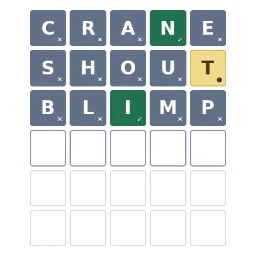
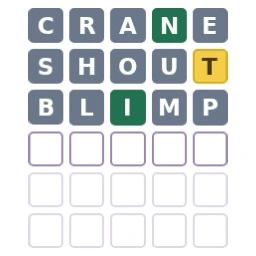
Refine Fivefold feedback layout and colors

Changed region(s): [[0.0938, 0.0312, 0.9062, 0.9688]]

diff --git a/src/lib/games/fivefold/Fivefold.svelte b/src/lib/games/fivefold/Fivefold.svelte
@@ -17,7 +17,6 @@
 
   const keyboardRows = ['QWERTYUIOP'.split(''), 'ASDFGHJKL'.split(''), ['Enter', ...'ZXCVBNM', 'Backspace']];
   const ranks: Record<LetterState, number> = { absent: 0, present: 1, correct: 2 };
-  const marks: Record<LetterState, string> = { absent: '×', present: '●', correct: '✓' };
   const descriptions: Record<LetterState, string> = {
     absent: 'no matching copy',
     present: 'in the word, different position',
@@ -48,7 +47,7 @@
         ? `Solved in ${guesses.length} ${guesses.length === 1 ? 'guess' : 'guesses'}.`
         : finished
           ? `All six guesses used. The word was ${answer}.`
-          : message || 'Type a five-letter word, then press Enter.'
+          : message || 'Enter a five-letter word.'
   );
   const keyboardStates = $derived.by(() => {
     const states: Record<string, LetterState> = {};
@@ -88,18 +87,18 @@
     if (!ready || finished) return;
     if (key === 'Enter') {
       if (draft.length !== WORD_LENGTH) {
-        message = `Add ${WORD_LENGTH - draft.length} more ${WORD_LENGTH - draft.length === 1 ? 'letter' : 'letters'} before submitting.`;
+        message = `Add ${WORD_LENGTH - draft.length} more ${WORD_LENGTH - draft.length === 1 ? 'letter' : 'letters'}.`;
         inputError = true;
         return;
       }
       if (!isAllowedGuess(draft)) {
-        message = `${draft} isn’t in our word list. Try another five-letter word.`;
+        message = 'Not in our word list.';
         inputError = true;
         return;
       }
       guesses = [...guesses, draft];
       draft = '';
-      message = 'Guess recorded. Use the clues to find your next word.';
+      message = 'Guess recorded. Try another word.';
       inputError = false;
       persist();
       return;
@@ -193,7 +192,6 @@
             aria-hidden="true"
           >
             <span class="tile-letter">{row.word[column] ?? ''}</span>
-            {#if state}<span class="tile-mark">{marks[state]}</span>{/if}
           </div>
         {/each}
       </div>
@@ -201,9 +199,9 @@
   </div>
 
   <div class="color-key" aria-label="Letter feedback key">
-    <span><span class="legend-symbol correct-symbol" aria-hidden="true">✓</span> Right spot</span>
-    <span><span class="legend-symbol present-symbol" aria-hidden="true">●</span> Wrong spot</span>
-    <span><span class="legend-symbol absent-symbol" aria-hidden="true">×</span> No match</span>
+    <span><span class="legend-swatch correct-color" aria-hidden="true"></span> Right spot</span>
+    <span><span class="legend-swatch present-color" aria-hidden="true"></span> Wrong spot</span>
+    <span><span class="legend-swatch absent-color" aria-hidden="true"></span> No match</span>
   </div>
 
   <p id="fivefold-status" class="game-status" class:error={inputError && !finished} role="status" aria-live="polite" aria-atomic="true">{status}</p>
@@ -250,7 +248,6 @@
             {:else}
               <span>{key}</span>
             {/if}
-            {#if state}<span class="key-mark" aria-hidden="true">{marks[state]}</span>{/if}
           </button>
         {/each}
       </div>
@@ -262,11 +259,11 @@
     <div class="instructions">
       <p>Find the hidden five-letter word in six guesses. Enter a word using your keyboard or the keys above, then press <strong>Enter</strong>. Each guess must be in our word list.</p>
       <ul>
-        <li><strong>✓ Right spot:</strong> that letter is exactly where it belongs.</li>
-        <li><strong>● Wrong spot:</strong> the word contains that letter, but elsewhere.</li>
-        <li><strong>× No match:</strong> there is no remaining copy of that letter to match.</li>
+        <li><strong>Green — right spot:</strong> that letter is exactly where it belongs.</li>
+        <li><strong>Yellow — wrong spot:</strong> the word contains that letter, but elsewhere.</li>
+        <li><strong>Gray — no match:</strong> there is no remaining copy of that letter to match.</li>
       </ul>
-      <p>Repeated letters count individually. If you guess two Es and the answer has only one, just one E gets a ✓ or ●. Correct positions are matched first, then remaining copies from left to right.</p>
+      <p>Repeated letters count individually. If you guess two Es and the answer has only one, just one E turns green or yellow. Correct positions are matched first, then remaining copies from left to right.</p>
       <p>The keyboard keeps each letter’s best clue. Your progress is saved in this browser when storage is available. Sharing reveals the pattern of your guesses, never the word.</p>
     </div>
   </details>
@@ -298,7 +295,6 @@
   .board-row { display: grid; grid-template-columns: repeat(5, minmax(0, 1fr)); gap: 6px; }
 
   .tile {
-    position: relative;
     display: grid;
     place-items: center;
     aspect-ratio: 1;
@@ -313,10 +309,9 @@
   .tile-letter { font-size: clamp(1.45rem, 7vw, 1.95rem); font-weight: 800; }
   .current .tile { border-color: var(--accent-line); }
   .current .tile.filled { border-color: var(--accent); background: var(--page); }
-  .tile-mark { position: absolute; right: 4px; bottom: 3px; font-size: 0.68rem; font-weight: 800; }
   .tile.correct, .key.correct { background: #22724f; border-color: #22724f; color: #fff; }
-  .tile.present, .key.present { background: #f1d98a; border-color: #d8bb60; color: #49380e; }
-  .tile.absent, .key.absent { background: #627087; border-color: #627087; color: #fff; }
+  .tile.present, .key.present { background: #f5cd47; border-color: #d6ad26; color: #49380e; }
+  .tile.absent, .key.absent { background: #6b778a; border-color: #6b778a; color: #fff; }
 
   .color-key {
     display: flex;
@@ -329,10 +324,10 @@
   }
 
   .color-key > span { display: inline-flex; align-items: center; gap: 0.3rem; }
-  .legend-symbol { display: inline-grid; place-items: center; width: 17px; height: 17px; border-radius: 3px; font-size: 0.7rem; font-weight: 800; }
-  .correct-symbol { background: #22724f; color: #fff; }
-  .present-symbol { background: #f1d98a; color: #49380e; }
-  .absent-symbol { background: #627087; color: #fff; }
+  .legend-swatch { width: 17px; height: 17px; border-radius: 3px; }
+  .correct-color { background: #22724f; }
+  .present-color { background: #f5cd47; }
+  .absent-color { background: #6b778a; }
 
   .game-status {
     display: flex;
@@ -353,7 +348,6 @@
   .middle-row { padding-inline: 5%; }
 
   .key {
-    position: relative;
     display: flex;
     align-items: center;
     justify-content: center;
@@ -375,7 +369,6 @@
   }
 
   .key.action-key { flex-grow: 1.55; font-size: 0.68rem; }
-  .key-mark { position: absolute; right: 3px; bottom: 2px; font-size: 0.58rem; line-height: 1; }
   .key:disabled { cursor: default; }
   .keyboard[aria-describedby] .key:disabled:not(.correct):not(.present):not(.absent) { color: #666; background: #f3f3f3; }
   .key:active:not(:disabled) { transform: translateY(1px); border-bottom-width: 1px; }

diff --git a/README.md b/README.md
@@ -58,6 +58,7 @@ Those infrastructure changes are separate from this repository. No VITE_SITE_URL
 - Today's puzzle uses the browser clock and the America/Chicago calendar date, including daylight saving time.
 - Daily puzzles generate only when opened; no generated daily records or archive pages are stored on a server.
 - /games/fivefold/ opens today's word puzzle; /games/kings/ opens today's crown-placement puzzle.
+- Fivefold tiles and letter keys show clues by color only: green for the right spot, golden yellow for the wrong spot, and slate gray for no match. Screen readers retain per-letter clue descriptions. Compact in-play messages keep invalid-word feedback on one line without shifting the keyboard on phone layouts.
 - Both games have a New seed button in the header. Its modal offers a repeatable custom seed, a pinned daily date, a random puzzle, or today's puzzle. Closing without selecting leaves the active board unchanged.
 - Kings uses generator v1 for all daily dates and custom seeds. Seeded legal king arrangements, irregular connected region growth, and shuffled region colors replace the old 20-board template generator. Earlier unpublished board data is intentionally reset instead of migrated, so old positions are not restored onto different boards.
 - Kings initially shows a fixed decorative grid unrelated to the selected puzzle beneath a translucent white veil; the Start/Resume button stays fully opaque above it. The real board is not rendered until Start puzzle or Resume puzzle is pressed, which also starts the timer; waiting at the gate does not count. Saved elapsed time resumes, completion freezes it, and clearing the board does not reset it. Time with the page closed is not counted.
